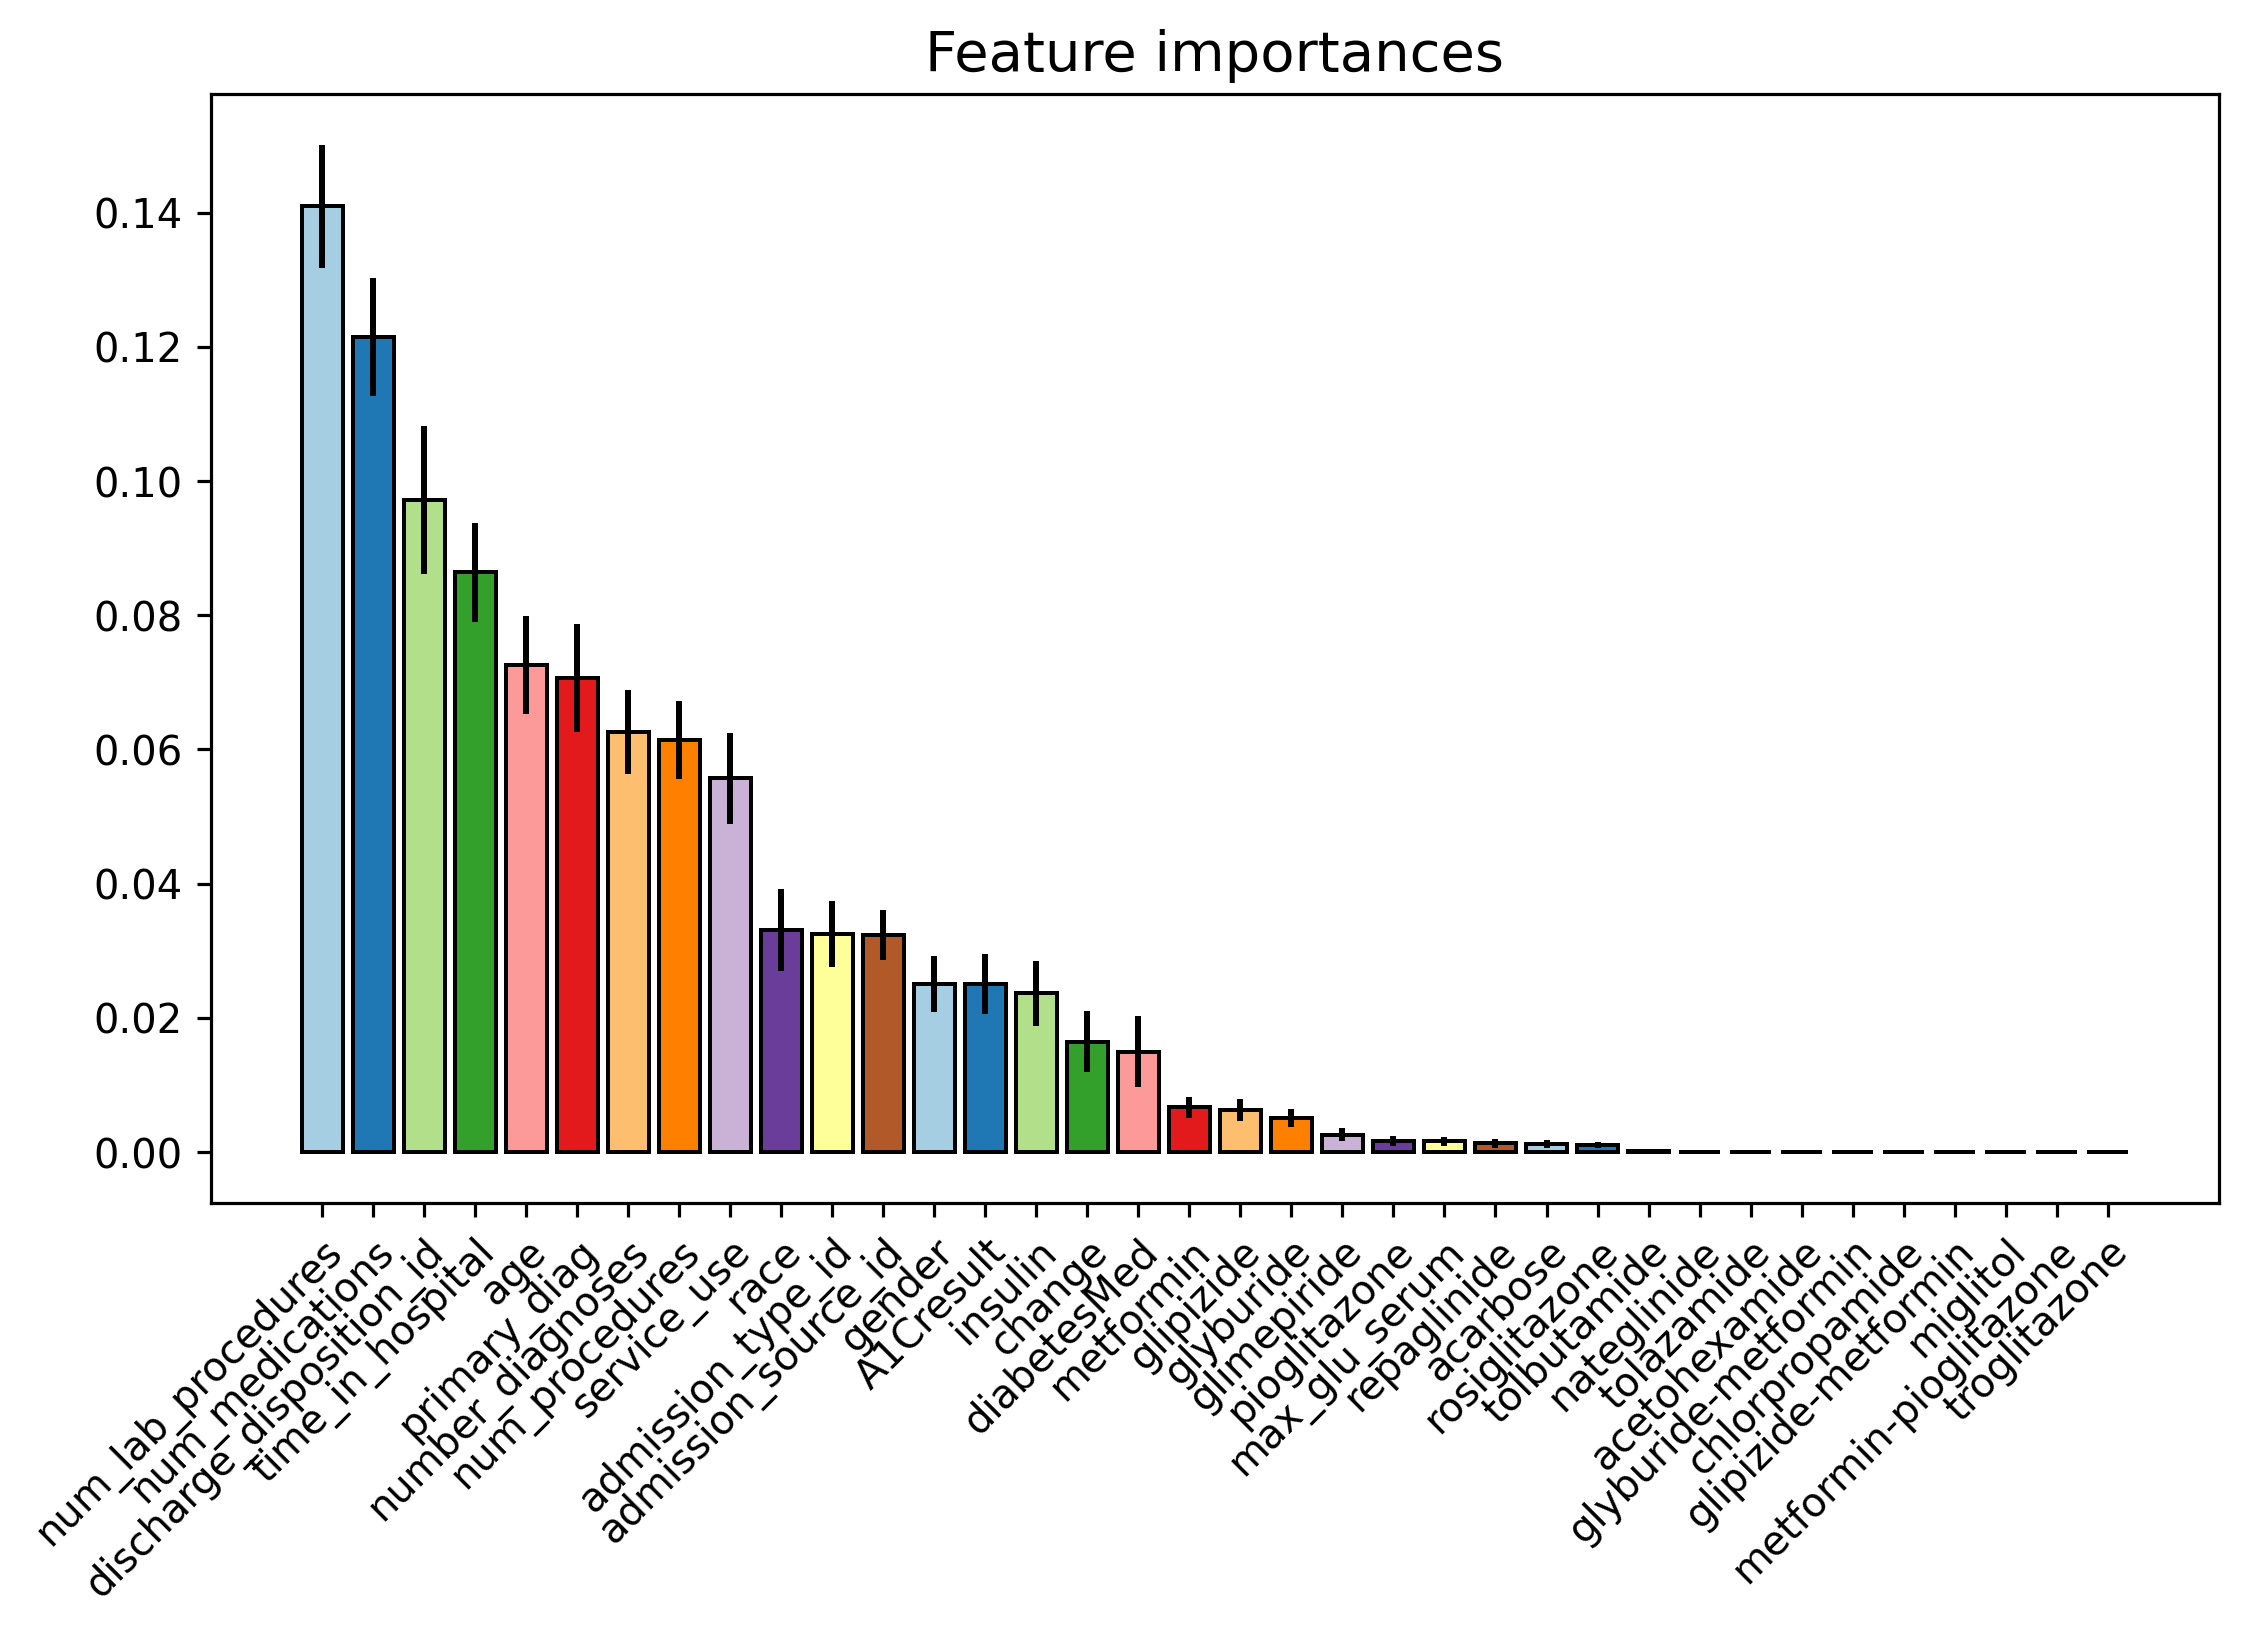
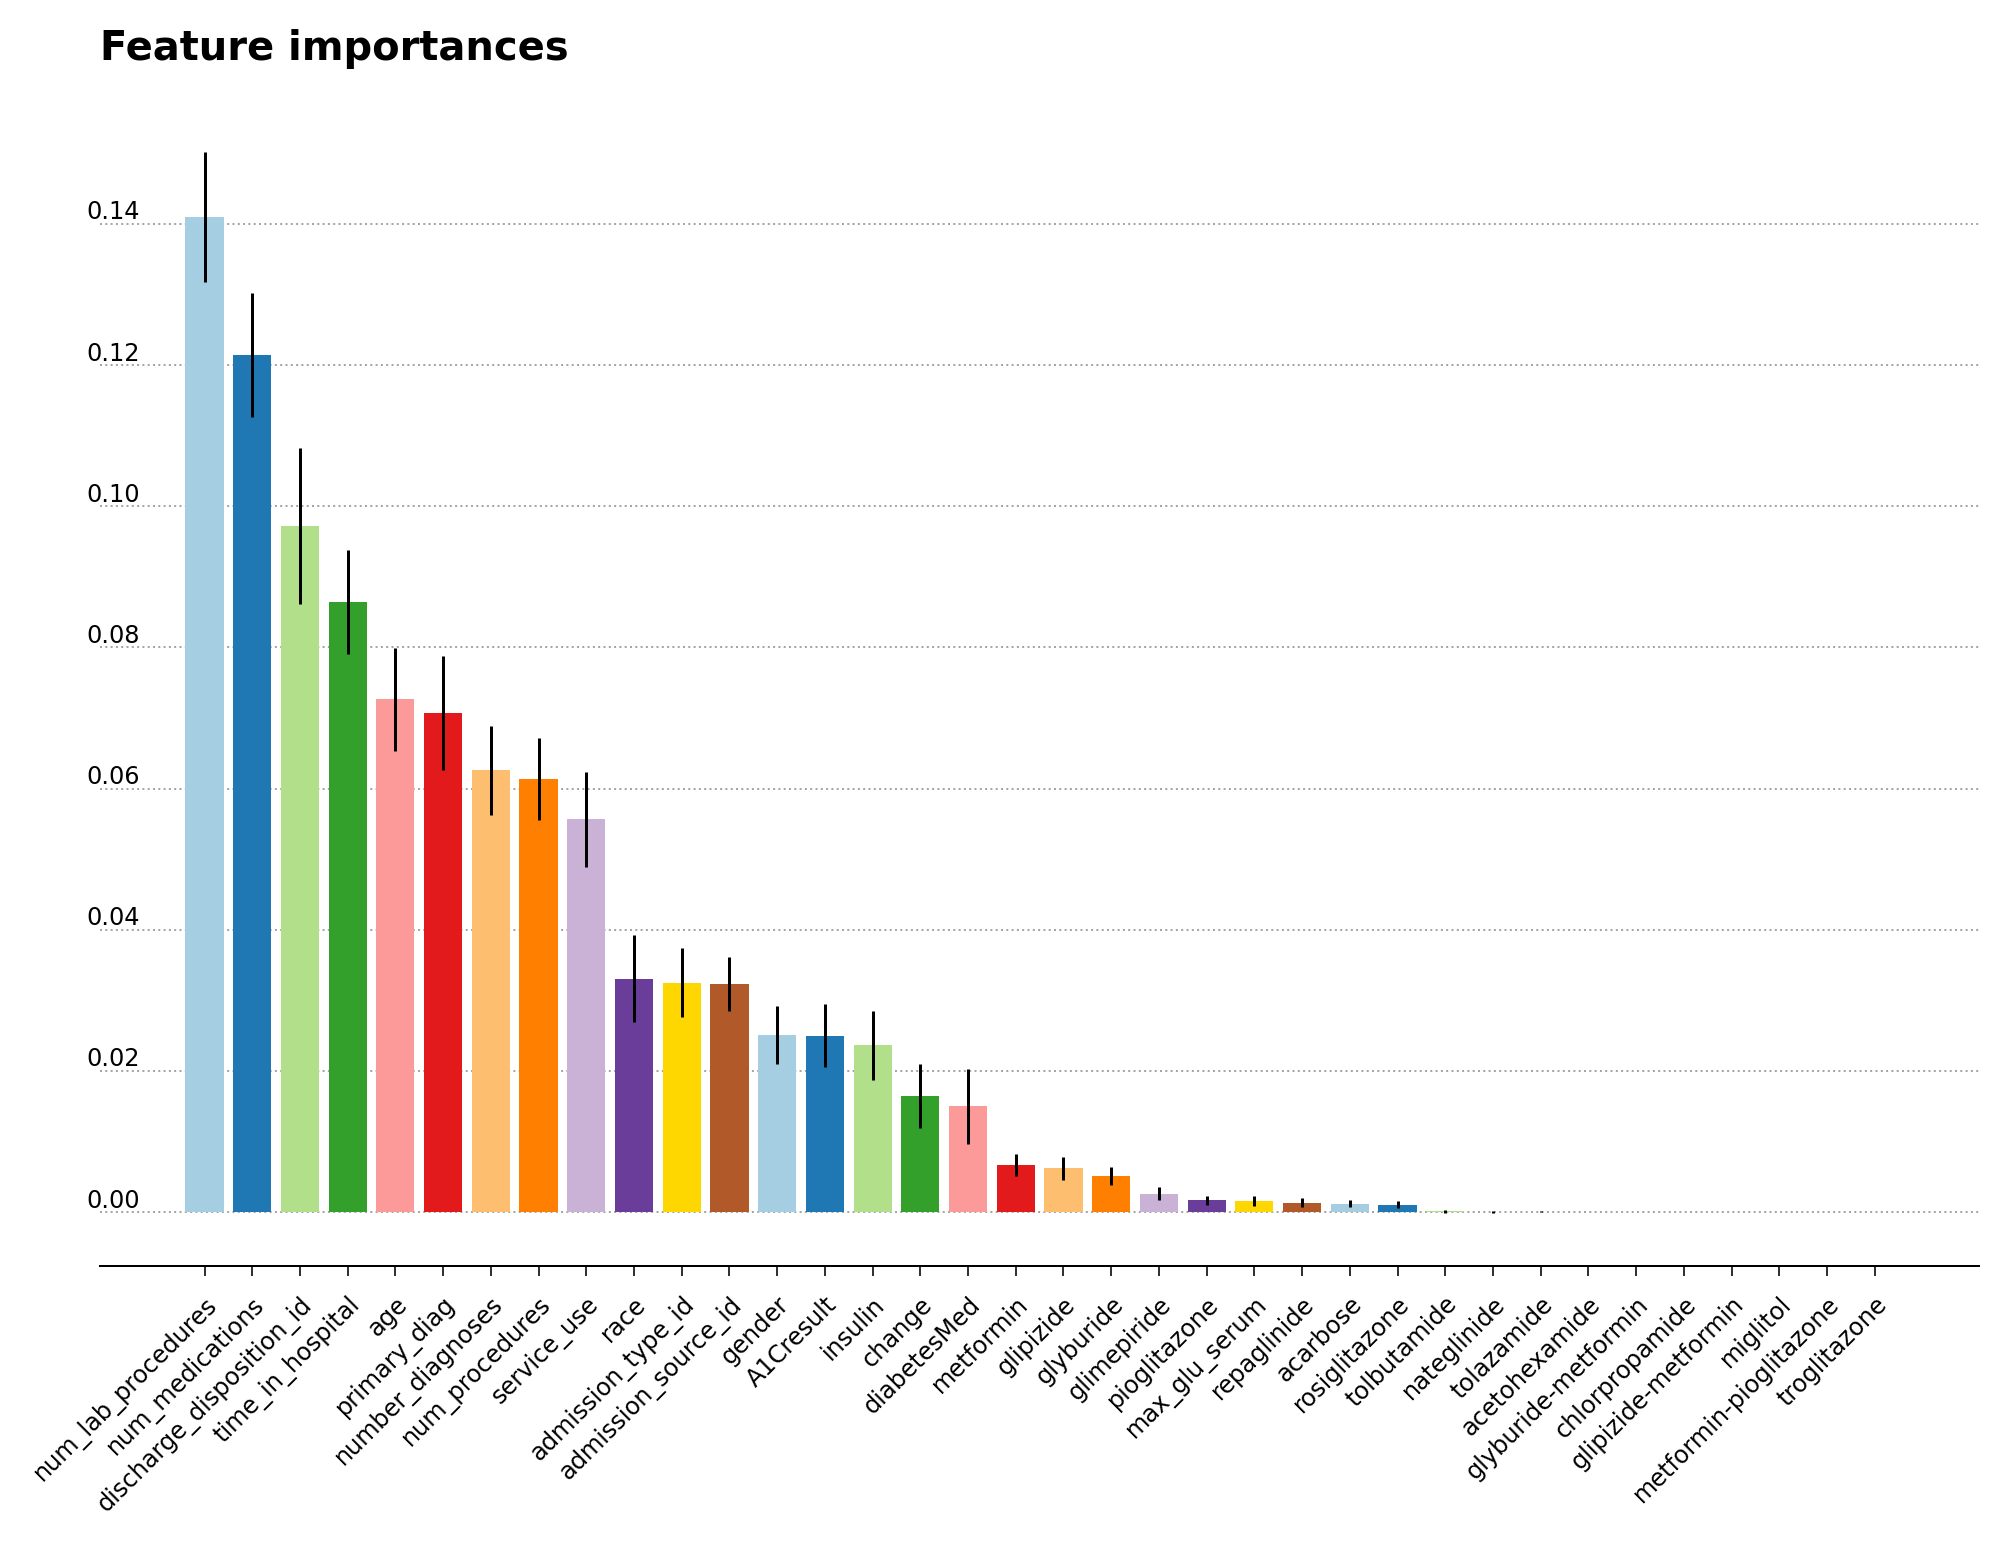
Updated feature importance plot

diff --git a/feature_importances_plot.py b/feature_importances_plot.py
@@ -7,7 +7,10 @@ from sklearn.model_selection import train_test_split
 from sklearn.ensemble import RandomForestClassifier
 import matplotlib.pyplot as plt
 
-work_dir = Path.home() / 'Programming/Python/machine-learning-exercises/uci-ml-repository/diabetes-in-130-US-hospitals'
+plt.style.use('barplot-style.mplstyle')
+
+work_dir = Path.home() / 'Programming/Python/machine-learning-exercises/'\
+                         'uci-ml-repository/diabetes-in-130-US-hospitals'
 df = pd.read_csv(work_dir / 'data/df_encoded.csv')
 
 X = df.drop('readmitted', axis=1)
@@ -25,10 +28,12 @@ sorted_features_df = pd.DataFrame({'col_name': rf_clf.feature_importances_,
                                   index=X.columns).sort_values(by='col_name',
                                                                ascending=False)
 
-fig, axes = plt.subplots(figsize=(9, 5))
+prop_cycle = plt.rcParams['axes.prop_cycle']
+colors = prop_cycle.by_key()['color']
+fig, axes = plt.subplots()
 axes.bar(sorted_features_df.index, sorted_features_df['col_name'],
-         color=plt.cm.Paired.colors, edgecolor='k', yerr=sorted_features_df['std_err'])
-plt.setp(axes.get_xticklabels(), ha="right", rotation_mode="anchor", rotation=45, fontsize=10)
-plt.setp(axes.get_yticklabels(), fontsize=10)
-axes.set_title('Feature importances', fontsize=14)
-plt.savefig('plots/feature_importances.png', dpi=288, bbox_inches='tight')
+         yerr=sorted_features_df['std_err'], color=colors)
+plt.setp(axes.get_xticklabels(), ha="right",
+         rotation_mode="anchor", rotation=45)
+axes.set_title('Feature importances')
+plt.savefig('plots/feature_importances.png')
